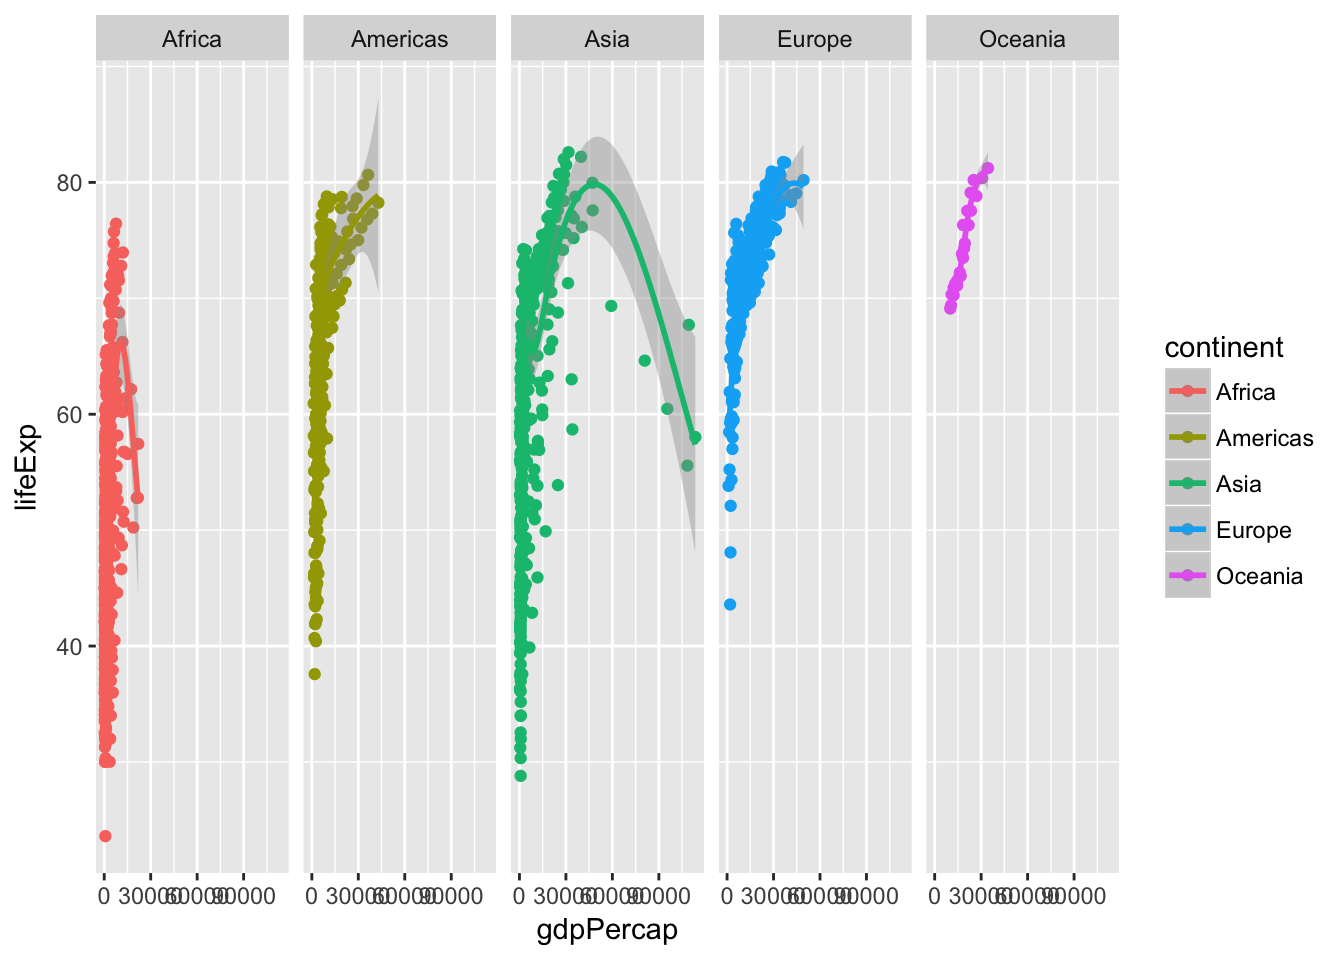
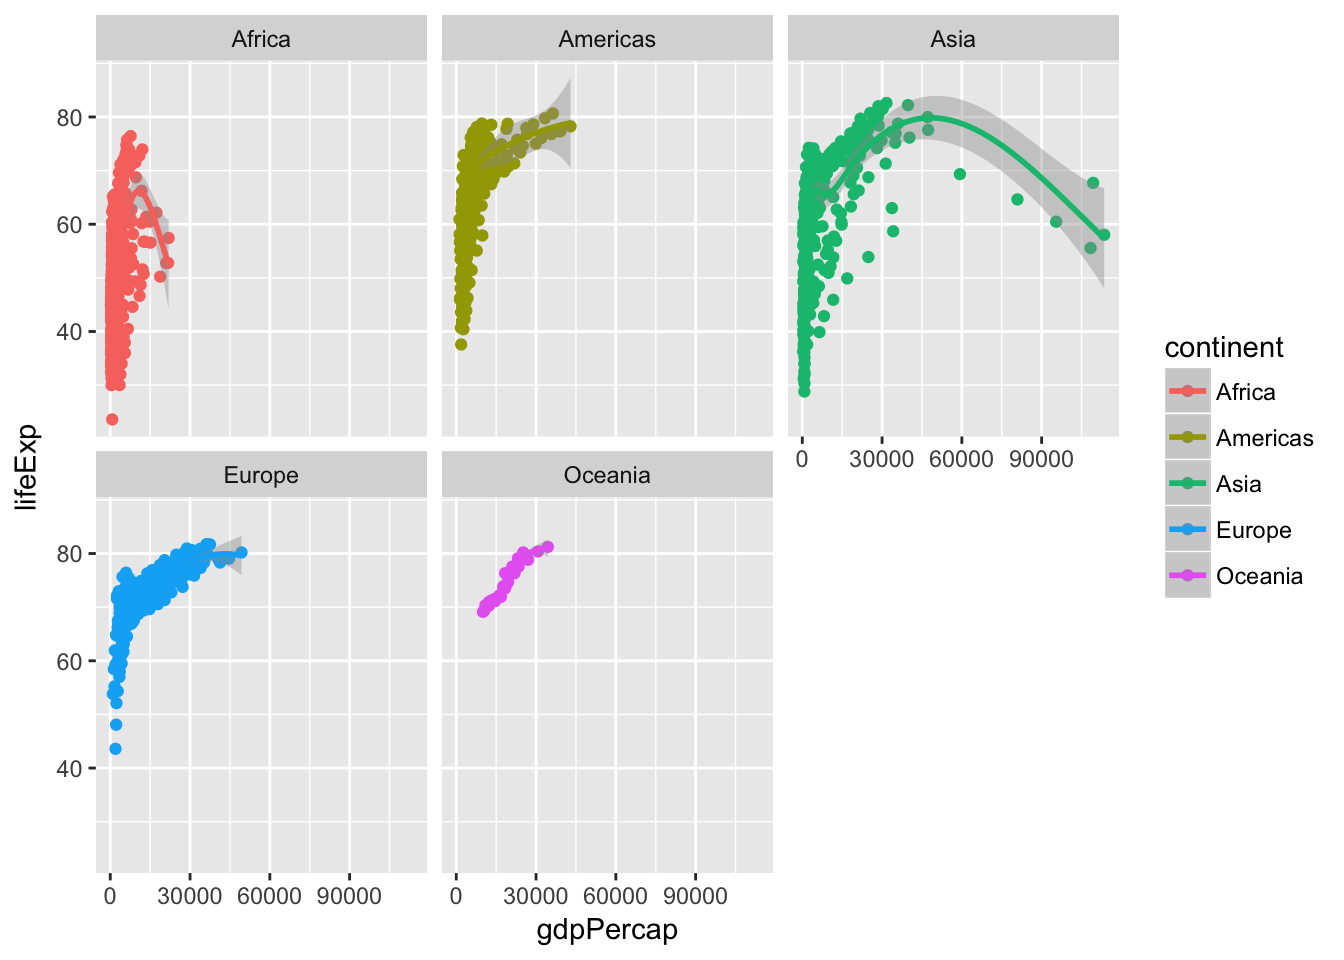
Add explanation distinguishing facet_wrap and facet_grid

diff --git a/dataviz_gapminder.html b/dataviz_gapminder.html
@@ -449,12 +449,33 @@ div.tocify {
 <h4>Use faceting to identify differences</h4>
 <details> <summary>Click for the solution</summary>
 <p>
-<div class="sourceCode"><pre class="sourceCode r"><code class="sourceCode r"><span class="kw">ggplot</span>(<span class="dt">data =</span> gapminder, <span class="dt">mapping =</span> <span class="kw">aes</span>(<span class="dt">x =</span> gdpPercap, <span class="dt">y =</span> lifeExp, <span class="dt">color =</span> continent)) <span class="op">+</span>
+<div class="sourceCode"><pre class="sourceCode r"><code class="sourceCode r"><span class="co"># using facet_wrap()</span>
+<span class="kw">ggplot</span>(<span class="dt">data =</span> gapminder, <span class="dt">mapping =</span> <span class="kw">aes</span>(<span class="dt">x =</span> gdpPercap, <span class="dt">y =</span> lifeExp, <span class="dt">color =</span> continent)) <span class="op">+</span>
+<span class="st">  </span><span class="kw">geom_point</span>() <span class="op">+</span>
+<span class="st">  </span><span class="kw">geom_smooth</span>() <span class="op">+</span>
+<span class="st">  </span><span class="kw">facet_wrap</span>(<span class="op">~</span><span class="st"> </span>continent)</code></pre></div>
+<pre><code>## `geom_smooth()` using method = &#39;loess&#39;</code></pre>
+<p><img src="dataviz_gapminder_files/figure-html/scatter-facet-1.png" width="672" /></p>
+<div class="sourceCode"><pre class="sourceCode r"><code class="sourceCode r"><span class="co"># using facet_grid()</span>
+<span class="kw">ggplot</span>(<span class="dt">data =</span> gapminder, <span class="dt">mapping =</span> <span class="kw">aes</span>(<span class="dt">x =</span> gdpPercap, <span class="dt">y =</span> lifeExp, <span class="dt">color =</span> continent)) <span class="op">+</span>
 <span class="st">  </span><span class="kw">geom_point</span>() <span class="op">+</span>
 <span class="st">  </span><span class="kw">geom_smooth</span>() <span class="op">+</span>
 <span class="st">  </span><span class="kw">facet_grid</span>(. <span class="op">~</span><span class="st"> </span>continent)</code></pre></div>
 <pre><code>## `geom_smooth()` using method = &#39;loess&#39;</code></pre>
-<img src="dataviz_gapminder_files/figure-html/scatter-facet-1.png" width="672" />
+<p><img src="dataviz_gapminder_files/figure-html/scatter-facet-2.png" width="672" /></p>
+<p>Why use <code>facet_grid()</code> here instead of <code>facet_wrap()</code>? Good question! Let’s reframe it and instead ask, what is the difference between <code>facet_grid()</code> and <code>facet_wrap()</code>?<a href="#fn1" class="footnoteRef" id="fnref1"><sup>1</sup></a></p>
+<p>The answer below refers to the case when you have 2 arguments in <code>facet_grid()</code> or <code>facet_wrap()</code>. <code>facet_grid(x ~ y)</code> will display <span class="math inline">\(x \times y\)</span> plots even if some plots are empty. For example:</p>
+<div class="sourceCode"><pre class="sourceCode r"><code class="sourceCode r"><span class="kw">ggplot</span>(mpg, <span class="kw">aes</span>(displ, hwy)) <span class="op">+</span>
+<span class="st">  </span><span class="kw">geom_point</span>() <span class="op">+</span>
+<span class="st">  </span><span class="kw">facet_grid</span>(cyl <span class="op">~</span><span class="st"> </span>class)</code></pre></div>
+<p><img src="dataviz_gapminder_files/figure-html/facet-grid-1.png" width="672" /></p>
+<p>There are 4 distinct <code>cyl</code> and 7 distinct <code>class</code> values. This plot displays <span class="math inline">\(4 \times 7 = 28\)</span> plots, even if some are empty (because some classes do not have corresponding cylinder values, like rows with <code>class = &quot;midsize&quot;</code> doesn’t have any corresponding <code>cyl = 5</code> value ).</p>
+<p><code>facet_wrap(x ~ y)</code> displays only the plots having actual values.</p>
+<div class="sourceCode"><pre class="sourceCode r"><code class="sourceCode r"><span class="kw">ggplot</span>(mpg, <span class="kw">aes</span>(displ, hwy)) <span class="op">+</span>
+<span class="st">  </span><span class="kw">geom_point</span>() <span class="op">+</span>
+<span class="st">  </span><span class="kw">facet_wrap</span>(<span class="op">~</span><span class="st"> </span>cyl <span class="op">+</span><span class="st"> </span>class)</code></pre></div>
+<p><img src="dataviz_gapminder_files/figure-html/facet-wrap-1.png" width="672" /></p>
+There are 19 plots displayed now, one for every combination of <code>cyl</code> and <code>class</code>. So for this exercise, I would use <code>facet_wrap()</code> because we are faceting on a single variable. If we faceted on multiple variables, <code>facet_grid()</code> may be more appropriate.
 </p>
 <p></details></p>
 </div>
@@ -484,7 +505,7 @@ div.tocify {
 ##  language (EN)                        
 ##  collate  en_US.UTF-8                 
 ##  tz       America/Chicago             
-##  date     2018-03-28</code></pre>
+##  date     2018-03-30</code></pre>
 <pre><code>## Packages -----------------------------------------------------------------</code></pre>
 <pre><code>##  package    * version    date       source                             
 ##  assertthat   0.2.0      2017-04-11 CRAN (R 3.4.0)                     
@@ -495,7 +516,6 @@ div.tocify {
 ##  broom        0.4.3      2017-11-20 CRAN (R 3.4.1)                     
 ##  cellranger   1.1.0      2016-07-27 CRAN (R 3.4.0)                     
 ##  cli          1.0.0      2017-11-05 CRAN (R 3.4.2)                     
-##  codetools    0.2-15     2016-10-05 CRAN (R 3.4.3)                     
 ##  colorspace   1.3-2      2016-12-14 CRAN (R 3.4.0)                     
 ##  compiler     3.4.3      2017-12-07 local                              
 ##  crayon       1.3.4      2017-10-03 Github (gaborcsardi/crayon@b5221ab)
@@ -506,7 +526,6 @@ div.tocify {
 ##  evaluate     0.10.1     2017-06-24 CRAN (R 3.4.1)                     
 ##  forcats    * 0.3.0      2018-02-19 CRAN (R 3.4.3)                     
 ##  foreign      0.8-69     2017-06-22 CRAN (R 3.4.3)                     
-##  gapminder  * 0.3.0      2017-10-31 CRAN (R 3.4.2)                     
 ##  ggplot2    * 2.2.1      2016-12-30 CRAN (R 3.4.0)                     
 ##  glue         1.2.0      2017-10-29 CRAN (R 3.4.2)                     
 ##  graphics   * 3.4.3      2017-12-07 local                              
@@ -557,6 +576,12 @@ div.tocify {
 ##  withr        2.1.1      2017-12-19 CRAN (R 3.4.3)                     
 ##  xml2         1.2.0      2018-01-24 CRAN (R 3.4.3)                     
 ##  yaml         2.1.18     2018-03-08 CRAN (R 3.4.4)</code></pre>
+</div>
+<div class="footnotes">
+<hr />
+<ol>
+<li id="fn1"><p>Example drawn from <a href="https://stackoverflow.com/questions/20457905/whats-the-difference-between-facet-wrap-and-facet-grid-in-ggplot2">this StackOverflow thread</a>.<a href="#fnref1">↩</a></p></li>
+</ol>
 </div>
 
 <p>This work is licensed under the  <a href="http://creativecommons.org/licenses/by-nc/4.0/">CC BY-NC 4.0 Creative Commons License</a>.</p>
